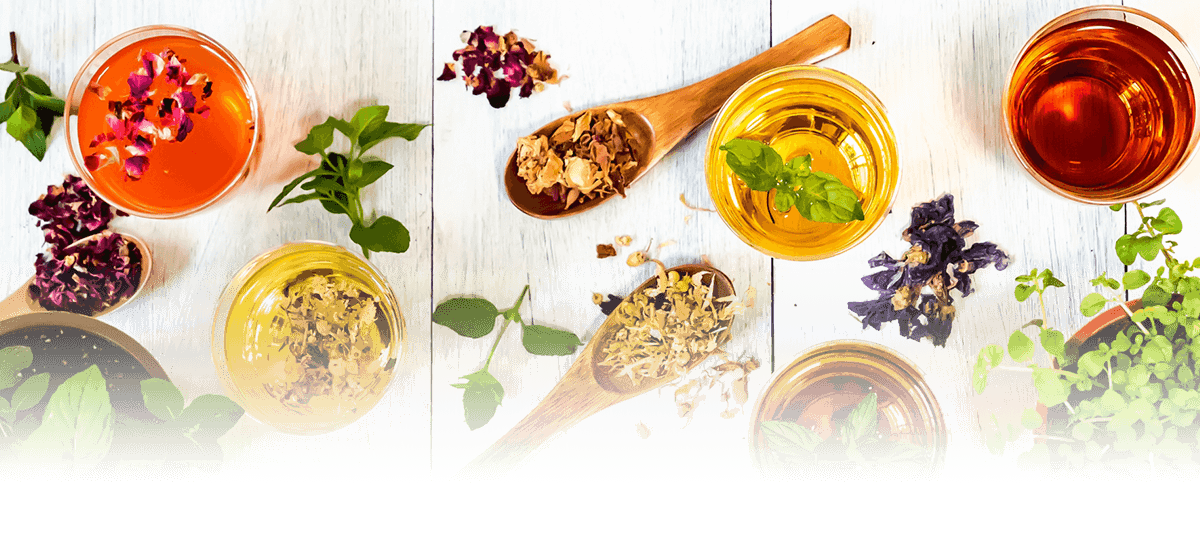
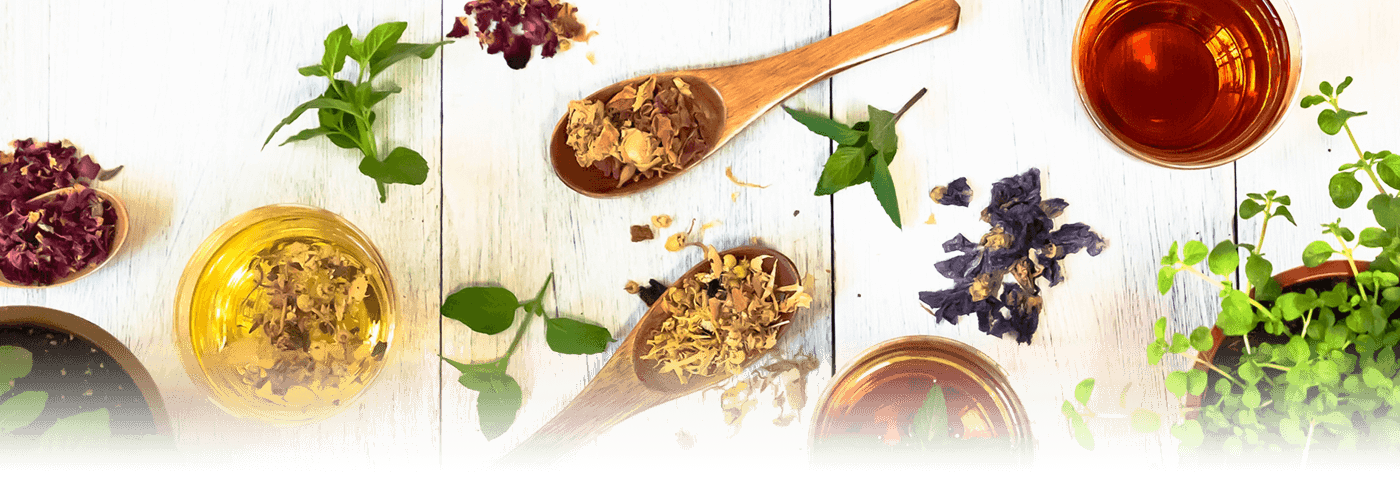
・アクセス部分のコーディングをほぼ完成 ・メニューのPC用背景画像を差し替え ・メニューのタイトルのボーダーをSPでも綺麗に出るように変更

diff --git a/css/page.css b/css/page.css
@@ -1047,7 +1047,7 @@
 }
 
 .menu-container .menu-title {
-  border-top: double;
+  border-top: solid 1px;
   border-bottom: solid 1px;
   padding: 6px 0;
   text-align: center;
@@ -1056,9 +1056,20 @@
   font-size: 2.4rem;
   letter-spacing: 1px;
   color: #B99F79;
+  position: relative;
   font-family: yu-mincho-pr6, sans-serif;
   font-weight: 400;
   font-style: normal;
+}
+
+.menu-container .menu-title:before {
+  border-top: 1px solid;
+  width: 100%;
+  content: "";
+  height: 1px;
+  position: absolute;
+  left: 0;
+  top: -5px;
 }
 
 @media (min-width: 768px) {
@@ -1441,7 +1452,7 @@
   display: flex;
   flex-flow: row wrap;
   width: 100%;
-  margin-bottom: 18px;
+  margin-bottom: 10px;
   font-size: 1.4rem;
 }
 
@@ -1449,6 +1460,7 @@
   .menu-container .set .item-list-no-image li {
     width: 48%;
     font-size: 1.8rem;
+    margin-bottom: 15px;
   }
 }
 
@@ -1482,8 +1494,21 @@
   margin-bottom: 30px;
 }
 
+@media (min-width: 768px) {
+  #access-container-fluid .logo {
+    width: 30%;
+  }
+}
+
+@media (min-width: 992px) {
+  #access-container-fluid .logo {
+    width: 20%;
+    max-width: 300px;
+  }
+}
+
 #access-container-fluid .logo p {
-  font-size: 2.5rem;
+  font-size: 2.2rem;
   color: #fff;
   text-align: center;
   font-weight: bold;
@@ -1501,25 +1526,53 @@
   font-weight: bold;
 }
 
+@media (min-width: 768px) {
+  #access-container-fluid .sub p {
+    font-size: 2.4rem;
+  }
+}
+
 .access-top-area {
   background: url("../images/footer_bg_sp.png");
   background-repeat: no-repeat;
   background-size: cover;
-  margin-right: -15px;
-  margin-left: -15px;
-  height: 450px;
+  margin: 0 -15px -120px;
   padding: 40px 0;
+}
+
+@media (min-width: 768px) {
+  .access-top-area {
+    background: url("../images/footer_bg_pc.png");
+    background-repeat: no-repeat;
+    background-size: cover;
+    padding: 80px 0;
+  }
+}
+
+.access-top-area .access-top-text {
+  padding: 40px 0 100px;
 }
 
 .access-container {
   background-color: #fff;
   padding: 30px 15px;
-  margin: -120px auto 0;
+}
+
+@media (min-width: 992px) {
+  .access-container {
+    padding: 30px 50px;
+  }
 }
 
 .access-container h2 {
-  margin-bottom: 10px;
+  margin: 10px 0;
   text-align: center;
+}
+
+@media (min-width: 768px) {
+  .access-container h2 {
+    margin: 20px 0;
+  }
 }
 
 .access-container h2 img {
@@ -1529,24 +1582,42 @@
 
 .access-container iframe {
   width: 100%;
-  border: 1px #333 solid;
+  border: 1px #b7b7b7 solid;
   margin: 20px auto;
+  height: 220px;
+}
+
+@media (min-width: 768px) {
+  .access-container iframe {
+    height: 350px;
+  }
 }
 
 .access-container .access-box {
   display: flex;
+  align-items: baseline;
 }
 
 .access-container .access-box h4 {
-  margin-right: 1.4rem;
+  font-size: 1.4rem;
   font-weight: bold;
   width: 10%;
   min-width: 40px;
 }
 
+@media (min-width: 768px) {
+  .access-container .access-box h4 {
+    font-size: 1.8rem;
+  }
+}
+
 .access-container .access-box-facility ul li {
   color: #FC9207;
   font-weight: bold;
+  margin-bottom: 8px;
+  display: flex;
+  flex-wrap: wrap;
+  align-items: center;
 }
 
 .access-container .access-box-facility ul li img {

diff --git a/sass/page.scss b/sass/page.scss
@@ -774,7 +774,7 @@
 		}
 	}
 	.menu-title{
-		border-top: double;
+		border-top: solid 1px;
 		border-bottom: solid 1px;
 		padding: 6px 0;
 		text-align: center;
@@ -783,6 +783,16 @@
 		font-size: 2.4rem;
 		letter-spacing: 1px;
 		color: $gold;
+		position: relative;
+		&:before{
+			border-top:1px solid;
+			width: 100%;
+			content: "";
+			height: 1px;
+			position: absolute;
+			left: 0;
+			top: -5px;
+		}
 		@include font-mincho;
 		@include pc {
 			padding: 15px 0;
@@ -1065,11 +1075,12 @@
 		display: flex;
 		flex-flow: row wrap;
 		width: 100%;
-		margin-bottom: 18px;
+		margin-bottom: 10px;
 		font-size: 1.4rem;
 		@include lg {
 			width: 48%;
 			font-size: 1.8rem;
+			margin-bottom: 15px;
 		}
 	}
 	.item-line{
@@ -1100,8 +1111,15 @@
 		margin: 0 auto;
 		width: 40%;
 		margin-bottom: 30px;
+		@include pc {
+			width: 30%;
+		}
+		@include lg {
+			width: 20%;
+			max-width: 300px;
+		}
 		p{
-			font-size: 2.5rem;
+			font-size: 2.2rem;
 			color: #fff;
 			text-align: center;
 			font-weight: bold;
@@ -1115,6 +1133,9 @@
 			color: #fff;
 			text-align: center;
 			font-weight: bold;
+			@include pc {
+				font-size: 2.4rem;
+			}
 		}
 	}
 }
@@ -1123,21 +1144,33 @@
 	background: url("../images/footer_bg_sp.png");
 	background-repeat: no-repeat;
 	background-size: cover;
-	margin-right: -15px;
-	margin-left: -15px;
-	height: 450px;
+	margin: 0 -15px -120px;
 	padding: 40px 0;
+	@include pc {
+		background: url("../images/footer_bg_pc.png");
+		background-repeat: no-repeat;
+		background-size: cover;
+		padding: 80px 0;
+	}
 	.access-top-text{
+		padding: 40px 0 100px;
+		.logo{
+		}
 	}
 }
 
 .access-container{
 	background-color: #fff;
 	padding: 30px 15px;
-	margin: -120px auto 0;
+	@include lg {
+		padding: 30px 50px;
+	}
 	h2{
-		margin-bottom: 10px;
+		margin: 10px 0;
 		text-align: center;
+		@include pc {
+			margin: 20px 0;
+		}
 		img{
 			height: 40px;
 			width: auto;
@@ -1145,21 +1178,33 @@
 	}
 	iframe{
 		width: 100%;
-		border: 1px #333 solid;
+		border: 1px #b7b7b7 solid;
 		margin: 20px auto;
+		height: 220px;
+		@include pc {
+			height: 350px;
+		}
 	}
 	.access-box{
 		display: flex;
+	    align-items: baseline;
 		h4{
-			margin-right: 1.4rem;
+			font-size: 1.4rem;
 			font-weight: bold;
 			width: 10%;
 			min-width: 40px;
+			@include pc {
+				font-size: 1.8rem;
+			}
 		}
 	}
 	.access-box-facility ul li{
 		color: $orange;
 		font-weight: bold;
+		margin-bottom: 8px;
+		display: flex;
+		flex-wrap: wrap;
+		align-items: center;
 		img{
 			width: 20px;
 			height: auto;

diff --git a/index.html b/index.html
@@ -1070,15 +1070,15 @@
     <div id="sweets-menu-container-fluid" class="container-fluid menu-container-fluid">
         <div class="row d-block">
             <h2><span class="hoge">スイーツメニュー</span><img src="images/title_menu_sweets.png" alt="sweets menu"></h2>
-            <div class="menu-tab-content drink-menu-tab-content">
-                <div id="menu-drink-01">
+            <div class="menu-tab-content sweets-menu-tab-content">
+                <div id="menu-sweets-01">
                     <div class="top-image d-md-none">
-                        <img src="images/menu_bg_sweets_sp.png" alt="コーヒー">
+                        <img src="images/menu_bg_sweets_sp.png" alt="ピアーズカフェ スイーツメニュー">
                     </div>
                     <div class="top-image d-none d-md-block">
-                        <img src="images/menu_bg_sweets_pc.png" alt="コーヒー">
+                        <img src="images/menu_bg_sweets_pc.png" alt="ピアーズカフェ スイーツメニュー">
                     </div>
-                    <div class="container menu-container drink-menu-container">
+                    <div class="container menu-container sweets-menu-container">
                         <h3 class="menu-title">CAKE</h3>
                         <section class="set">
                             <div class="item-list-wrapper">
@@ -1218,8 +1218,8 @@
                     <h4>設備</h4>
                     <div>
                         <ul>
-                            <li><img src="images/icon_wifi_orange.png" alt="wi-fi"><span class="hoge">Free Wi-Fi</span></li>
-                            <li><img src="images/icon_consent_orange.png" alt="コンセント"><span class="hoge">電源あり</span></li>
+                            <li><img src="images/icon_wifi_orange.png" alt="wi-fi"><span class="hoge">Free Wi-Fi 完備</span></li>
+                            <li><img src="images/icon_consent_orange.png" alt="コンセント"><span class="hoge">コンセント 完備</span></li>
                         </ul>
                     </div>
                 </div>
